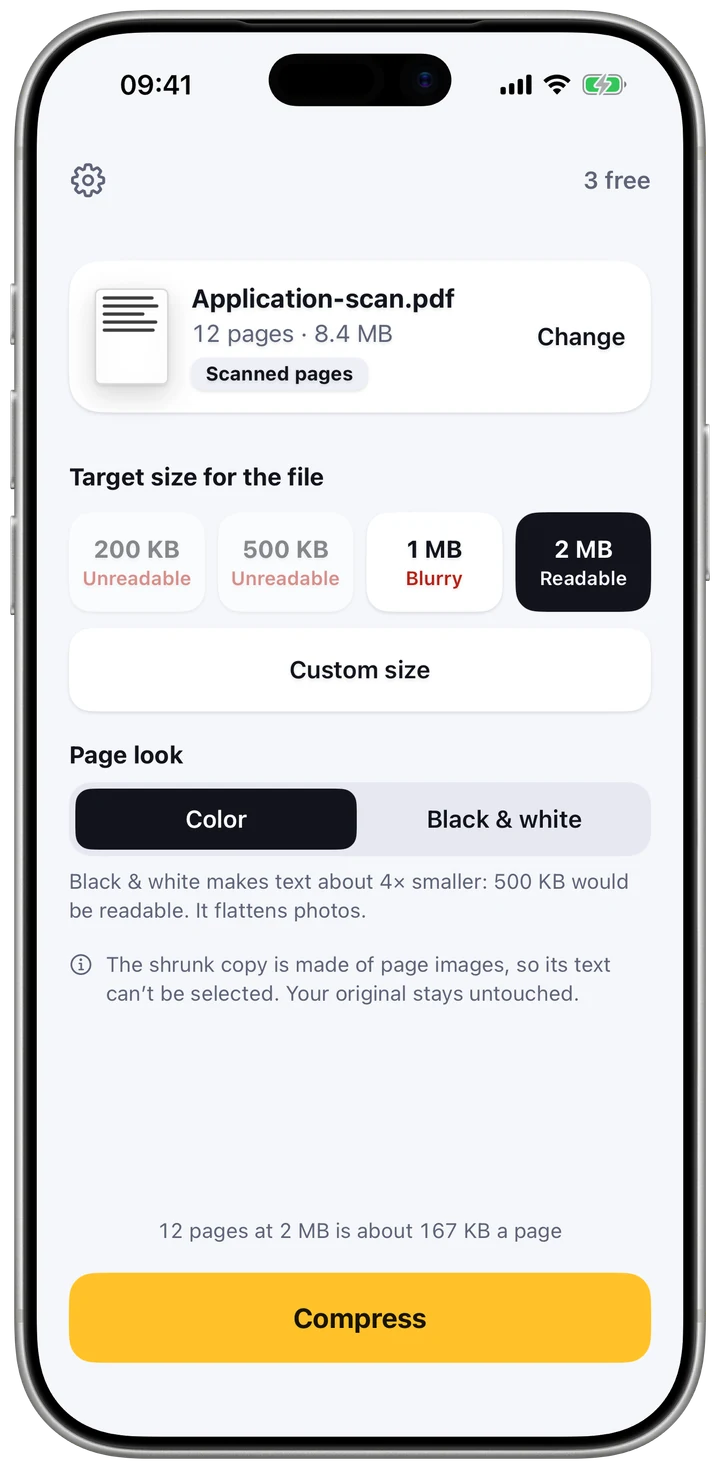
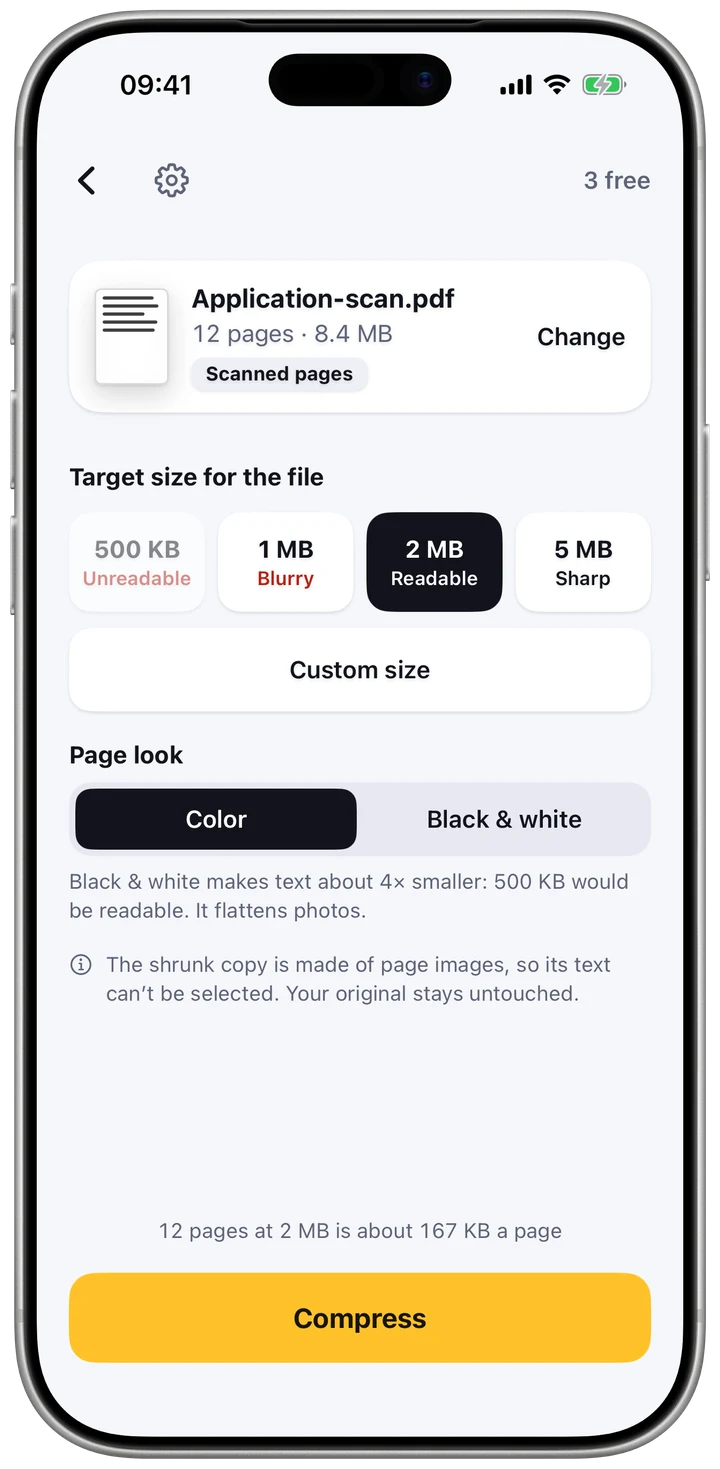
PDF limit screen: new size keys that follow the file

diff --git a/index.html b/index.html
@@ -148,7 +148,7 @@
       <div class="row-copy rise">
         <span class="eyebrow">PDFs · Step 1 · Your limit</span>
         <h2 id="pdf-title">Set the limit. <em>The whole PDF fits under it.</em></h2>
-        <p class="lede">A portal asks for 2 MB, so you choose 2 MB. The limit is for the whole file, and each size shows how readable your pages stay, so you see the trade before you compress. Color or black &amp; white is your call: black &amp; white keeps a scan sharp at a much smaller size.</p>
+        <p class="lede">A portal asks for 2 MB, so you choose 2 MB. The sizes offered fit your file, and each shows how readable your pages stay, so you see the trade before you compress. Color or black &amp; white is your call: black &amp; white keeps a scan sharp at a much smaller size.</p>
         <p class="keys-note">Pick a PDF from Files, up to 200 pages.</p>
       </div>
     </div>
